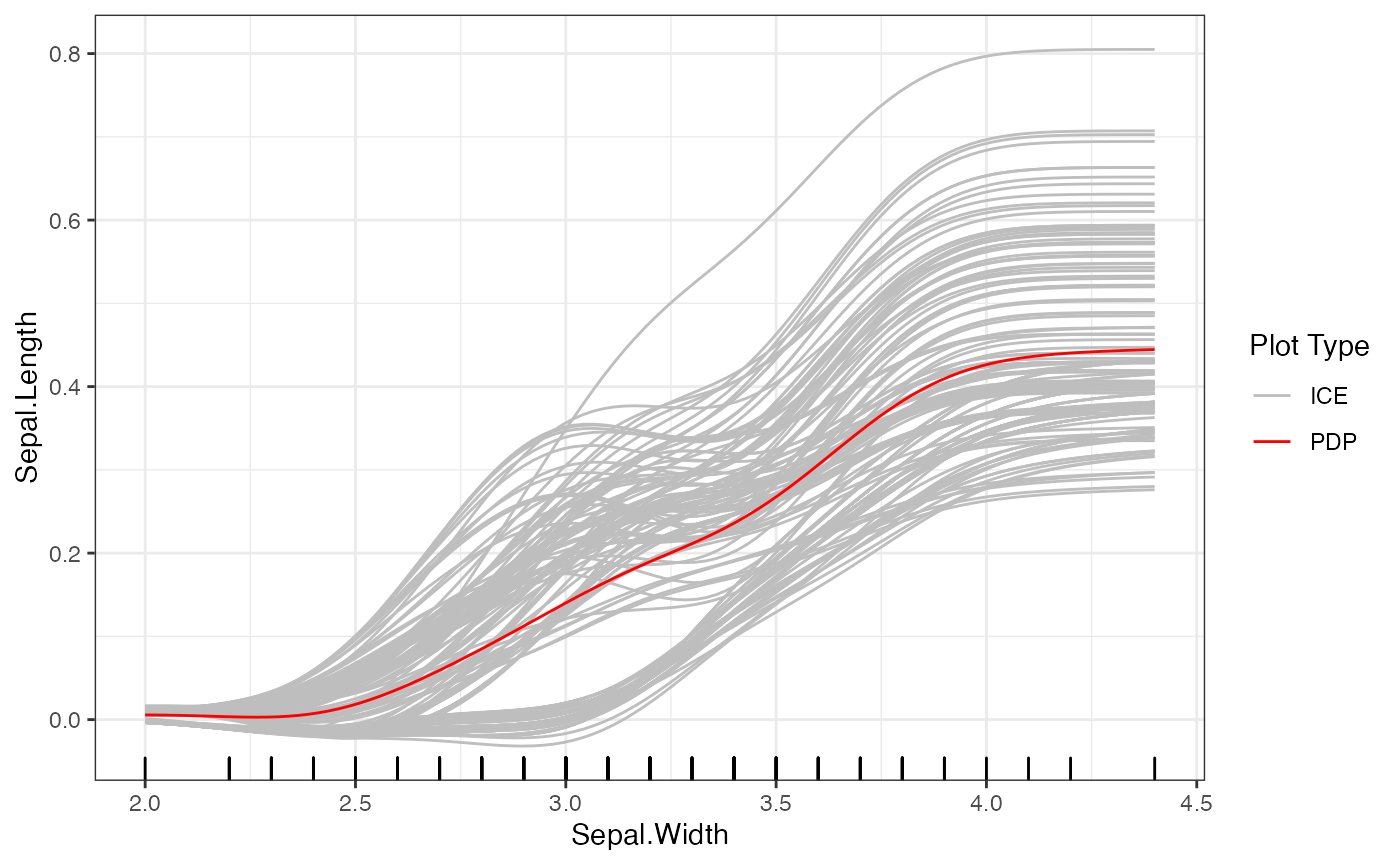
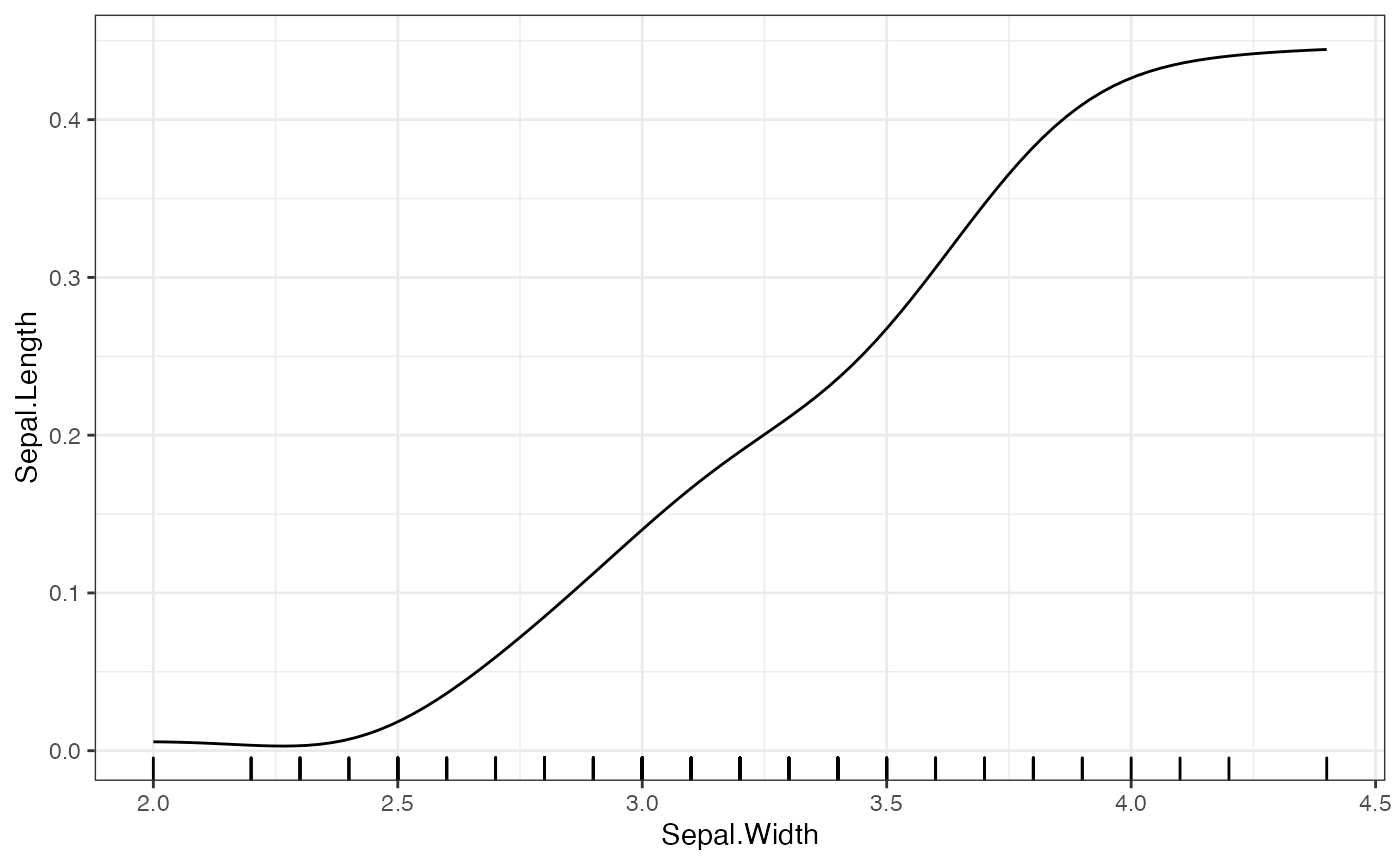
* Website changes

diff --git a/docs/articles/smoothing.html b/docs/articles/smoothing.html
@@ -183,6 +183,7 @@ model:</p>
 <div class="sourceCode" id="cb5"><pre class="downlit sourceCode r">
 <code class="sourceCode R"><span class="co"># Default smoothing options</span>
 <span class="fu"><a href="https://rdrr.io/r/graphics/plot.default.html" class="external-link">plot</a></span><span class="op">(</span><span class="va">forest_interpreter</span>,
+     method <span class="op">=</span> <span class="st">"pdp"</span>,
      features <span class="op">=</span> <span class="fu"><a href="https://rdrr.io/r/base/c.html" class="external-link">c</a></span><span class="op">(</span><span class="st">"Sepal.Width"</span><span class="op">)</span>,
      smooth <span class="op">=</span> <span class="cn">T</span><span class="op">)</span></code></pre></div>
 <pre><code><span class="co">## $Sepal.Width</span></code></pre>
@@ -190,6 +191,7 @@ model:</p>
 <div class="sourceCode" id="cb7"><pre class="downlit sourceCode r">
 <code class="sourceCode R"><span class="co"># compare to unsmoothed plots</span>
 <span class="fu"><a href="https://rdrr.io/r/graphics/plot.default.html" class="external-link">plot</a></span><span class="op">(</span><span class="va">forest_interpreter</span>, 
+     method <span class="op">=</span> <span class="st">"pdp"</span>,
      features <span class="op">=</span> <span class="fu"><a href="https://rdrr.io/r/base/c.html" class="external-link">c</a></span><span class="op">(</span><span class="st">"Sepal.Width"</span><span class="op">)</span><span class="op">)</span></code></pre></div>
 <pre><code><span class="co">## $Sepal.Width</span></code></pre>
 <p><img src="smoothing_files/figure-html/unnamed-chunk-2-2.png" width="700"></p>
@@ -220,6 +222,14 @@ prompt the user to put different values for these parameters.</p>
      smooth.npoints <span class="op">=</span> <span class="fl">500</span><span class="op">)</span></code></pre></div>
 <pre><code><span class="co">## $Sepal.Width</span></code></pre>
 <p><img src="smoothing_files/figure-html/unnamed-chunk-4-1.png" width="700"></p>
+<div class="sourceCode" id="cb13"><pre class="downlit sourceCode r">
+<code class="sourceCode R"><span class="co"># Standard ALE plots</span>
+<span class="fu"><a href="https://rdrr.io/r/graphics/plot.default.html" class="external-link">plot</a></span><span class="op">(</span><span class="va">forest_interpreter</span>,
+     features <span class="op">=</span> <span class="fu"><a href="https://rdrr.io/r/base/c.html" class="external-link">c</a></span><span class="op">(</span><span class="st">"Sepal.Width"</span><span class="op">)</span>,
+     method <span class="op">=</span> <span class="st">"ale"</span>,
+     smooth <span class="op">=</span> <span class="cn">F</span><span class="op">)</span></code></pre></div>
+<pre><code><span class="co">## $Sepal.Width</span></code></pre>
+<p><img src="smoothing_files/figure-html/unnamed-chunk-4-2.png" width="700"></p>
 <p>For further details on these methods, please refer to the
 “References” tab, which contains documentation for each of the methods
 discussed.</p>
